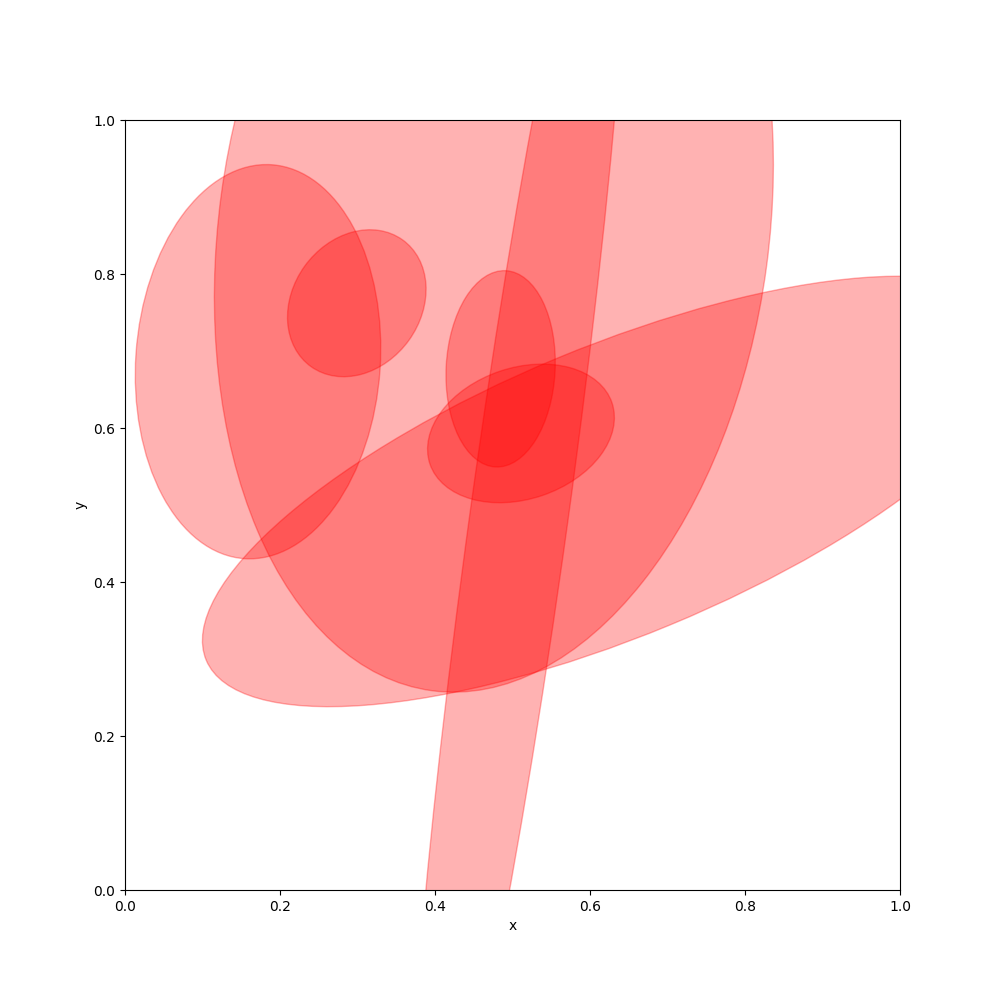
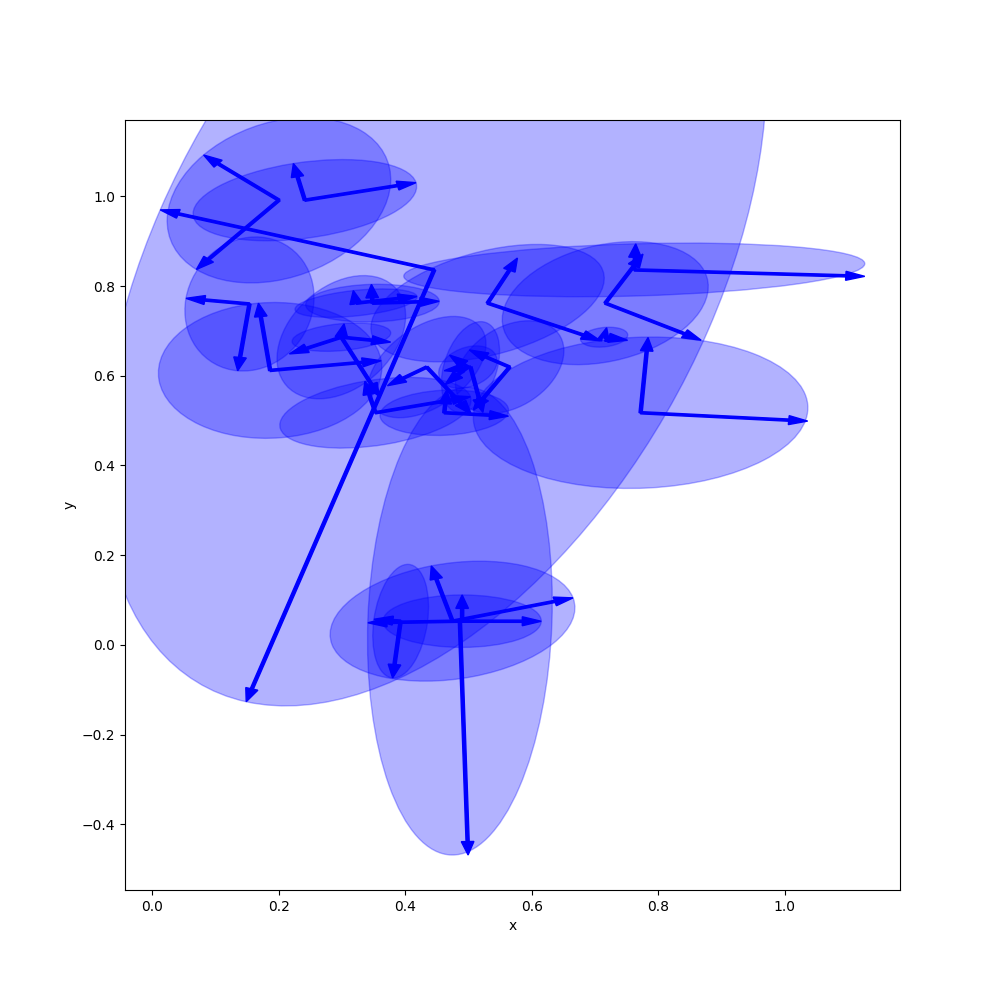
显示高斯椭圆的轴向

diff --git a/main2.py b/main2.py
@@ -22,10 +22,10 @@ question_name = 'hou_shu_01'
 #将拟合后的均值画在原始背景图上面，设置一些路径等参数
 in_file = 'background.jpg'
 # target_file = 'out/'+filename+'.png'
-target_file1 = 'out/filemeansGMM-new7.png'
+target_file1 = 'out/filemeansGMM-new8.png'
 ini_file = 'out/inifilemeansGMM.png'
 cov_ini_file = 'out/init_gaussian_covariance_matrix.png'
-cov_file = 'out/init_gaussian_covariance_matrix.png'
+cov_file = 'out/gaussian_covariance_matrix.png'
 modle_file = 'out/hmmmodel.pkl'
 
 
@@ -179,7 +179,8 @@ timestamp_sum = []#二维[[2333,2345,3214,...],[5333,5345,5214,...],...]
 pre_means_all = []
 pre_covs_all = []
 lengths = []
-def make_ellipses(mean, cov, ax, confidence=5.991, alpha=0.3, color="blue", eigv=False, arrow_color_list=None):
+#["red","blue","green","yellow","pink","black"]
+def make_ellipses(str, mean, cov, ax, confidence=5.991, alpha=0.3, color="blue", eigv=True, arrow_color_list=None):
     """
     多元正态分布
     mean: 均值
@@ -224,10 +225,10 @@ def make_ellipses(mean, cov, ax, confidence=5.991, alpha=0.3, color="blue", eigv
                      )
             """
             ax.arrow(mean[0], mean[1], scale_variable*v_i[0], scale_variable * v_i[1],
-                     width=0.05,
+                     width=0.005,
                      length_includes_head=True,
-                     head_width=0.2,
-                     head_length=0.3,
+                     head_width=0.02,
+                     head_length=0.03,
                      color=arrow_color_list[i])
 #'Project63-57 Recording63',
 
@@ -590,15 +591,17 @@ plt.rcParams["figure.figsize"] = (10.0, 10.0)
 fig, ax = plt.subplots()
 ax.set_xlabel("x")
 ax.set_ylabel("y")
+ax.grid(color='r', ls='dashed', lw=0.5, alpha=0.5) # 设置网格
 confidence = 5.991
 color = "red"
 alpha = 0.3
-eigv = False
+eigv = True
 for i in range(component_num):
     for j in range(mix_num):
-        make_ellipses(pre_means_[i][j], pre_covs_[i][j], ax, confidence=confidence, color=color, alpha=alpha, eigv=eigv)
+        make_ellipses(str(i)+str(j), pre_means_[i][j], pre_covs_[i][j], ax, confidence=confidence, color=color, alpha=alpha, eigv=eigv)
 
 plt.savefig(cov_ini_file)
+
 #plt.savefig("/out/gaussian_covariance_matrix.png")
 #plt.show()
 
@@ -826,12 +829,13 @@ ax.set_ylabel("y")
 confidence = 5.991
 color = "blue"
 alpha = 0.3
-eigv = False
+eigv = True
 for i in range(component_num):
     for j in range(mix_num):
-        make_ellipses(model.means_[i][j], model.covars_[i][j], ax, confidence=confidence, color=color, alpha=alpha, eigv=eigv)
+        make_ellipses(str(i)+str(j), model.means_[i][j], model.covars_[i][j], ax, confidence=confidence, color=color, alpha=alpha, eigv=eigv)
 
 plt.savefig(cov_file)
+plt.show()
 
 
 print("model.transmat_")
